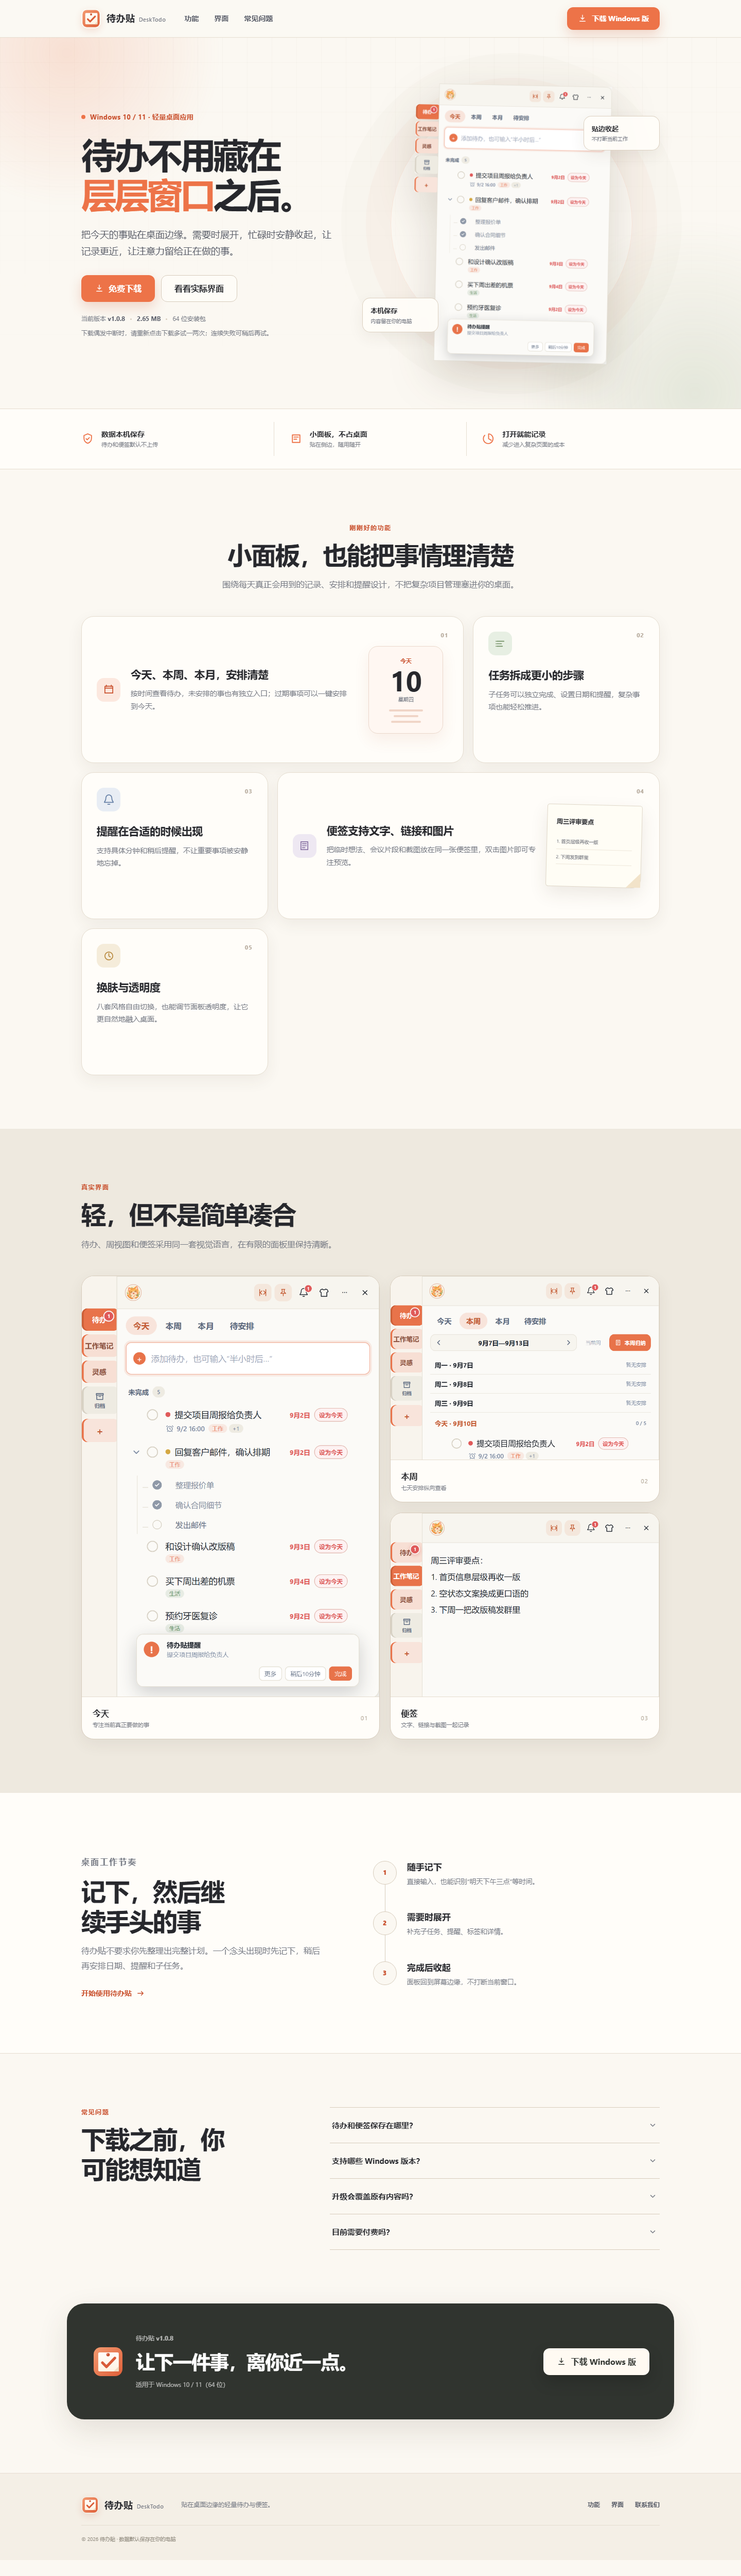
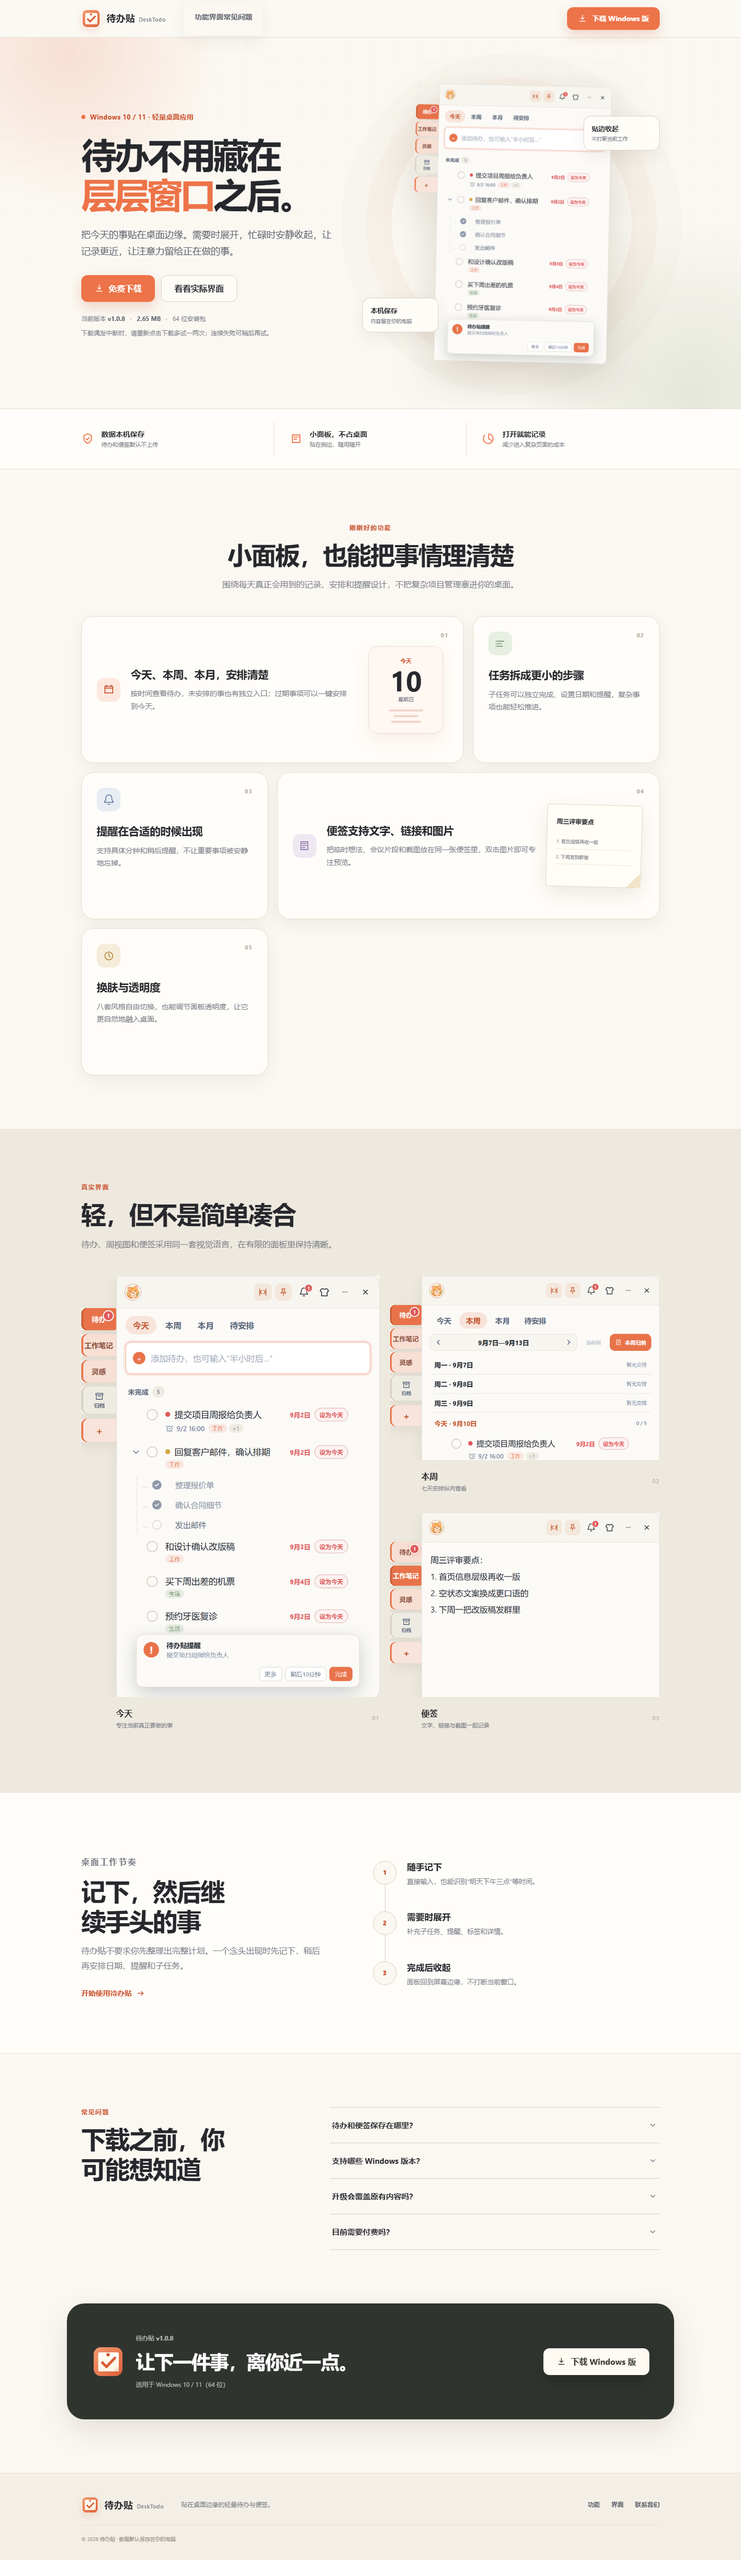
修复官网界面图区页签背板

diff --git a/assets/css/style.css b/assets/css/style.css
@@ -39,3 +39,9 @@ button,a{font:inherit}a{color:inherit;text-decoration:none}img{display:block;max
 @media(max-width:760px){.container{padding-inline:20px}.header-inner{height:66px}.brand small{display:none}.site-nav{position:absolute;top:66px;right:0;left:0;display:grid;gap:0;padding:10px 20px 16px;border-bottom:1px solid var(--line);background:var(--paper);box-shadow:var(--shadow-sm);opacity:0;transform:translateY(-8px);pointer-events:none;transition:opacity .18s ease,transform .18s ease}.site-nav.open{opacity:1;transform:none;pointer-events:auto}.site-nav a{min-height:44px;display:flex;align-items:center}.site-nav a::after{display:none}.header-download{display:none}.nav-toggle{display:flex}.hero-grid{padding-top:50px;padding-bottom:58px}.hero h1{font-size:clamp(39px,12vw,56px)}.hero-lead{font-size:16px}.hero-product{min-height:500px}.product-shot{width:min(78%,350px);height:490px}.floating-tip{min-width:132px;padding:11px 13px}.floating-tip-top{top:54px;right:0}.floating-tip-bottom{bottom:48px;left:0}.trust-grid{grid-template-columns:1fr;padding-block:10px}.trust-grid>div{min-height:75px;padding:12px 0;border-right:0;border-bottom:1px solid var(--line)}.trust-grid>div:last-child{border-bottom:0}.section{padding:78px 0}.feature-layout{grid-template-columns:1fr}.feature,.feature-large,.feature-wide,.feature:not(.feature-large):not(.feature-wide):last-child{grid-column:auto;min-height:260px;display:block}.feature-large .feature-icon,.feature-wide .feature-icon{margin-bottom:23px}.mini-calendar,.note-sample{display:none}.preview-grid{grid-template-columns:1fr;grid-template-rows:none}.preview-card,.preview-tall{grid-row:auto;height:520px}.rhythm-grid{grid-template-columns:1fr;gap:40px}.download-card{flex-direction:column;align-items:stretch;padding:34px 27px}.download-card>div{align-items:flex-start}.button-light{width:100%}.footer-grid{grid-template-columns:1fr}.footer-grid>div{flex-wrap:wrap}.footer-grid>small{grid-column:auto}}
 @media(max-width:480px){.container{padding-inline:16px}.hero h1{letter-spacing:-.045em}.hero-actions{display:grid}.hero-actions .button{width:100%}.hero-product{min-height:450px;margin-inline:-5px}.product-shot{width:82%;height:440px}.floating-tip{display:none}.release-line{gap:7px}.section-heading{text-align:left}.preview-card,.preview-tall{height:470px}.download-card>div{display:grid}}
 @media(prefers-reduced-motion:reduce){html{scroll-behavior:auto}*,*::before,*::after{scroll-behavior:auto!important;transition-duration:.01ms!important;animation-duration:.01ms!important;animation-iteration-count:1!important}.js .reveal{opacity:1;transform:none}}
+
+/* Product tabs float independently: never paint a rectangular card behind the rail. */
+.preview-card { overflow: visible; border: 0; border-radius: 0; background: transparent; box-shadow: none; }
+.preview-media { background: transparent; }
+.preview-media img { object-position: left top; filter: drop-shadow(0 8px 12px rgba(68,53,36,.09)); }
+.preview-card figcaption { margin-left: 11.666667%; padding-left: 0; padding-right: 0; border-top: 0; background: transparent; }

diff --git a/index.html b/index.html
@@ -72,9 +72,9 @@
     <section class="section preview-section" id="preview"><div class="container">
       <header class="section-heading section-heading-left reveal"><p class="section-kicker">真实界面</p><h2>轻，但不是简单凑合</h2><p>待办、周视图和便签采用同一套视觉语言，在有限的面板里保持清晰。</p></header>
       <div class="preview-grid">
-        <figure class="preview-card preview-tall reveal"><div class="preview-media"><img src="assets/screenshots/app-hero.png" alt="待办贴今天列表界面" loading="lazy" /></div><figcaption><span><b>今天</b><small>专注当前真正要做的事</small></span><i>01</i></figcaption></figure>
-        <figure class="preview-card reveal"><div class="preview-media"><img src="assets/screenshots/shot-week.png" alt="待办贴本周视图" loading="lazy" /></div><figcaption><span><b>本周</b><small>七天安排纵向查看</small></span><i>02</i></figcaption></figure>
-        <figure class="preview-card reveal"><div class="preview-media"><img src="assets/screenshots/shot-notes.png" alt="待办贴便签界面" loading="lazy" /></div><figcaption><span><b>便签</b><small>文字、链接与截图一起记录</small></span><i>03</i></figcaption></figure>
+        <figure class="preview-card preview-tall reveal"><div class="preview-media"><img src="assets/screenshots/app-hero.png?v=20260914" alt="待办贴今天列表界面" loading="lazy" /></div><figcaption><span><b>今天</b><small>专注当前真正要做的事</small></span><i>01</i></figcaption></figure>
+        <figure class="preview-card reveal"><div class="preview-media"><img src="assets/screenshots/shot-week.png?v=20260914" alt="待办贴本周视图" loading="lazy" /></div><figcaption><span><b>本周</b><small>七天安排纵向查看</small></span><i>02</i></figcaption></figure>
+        <figure class="preview-card reveal"><div class="preview-media"><img src="assets/screenshots/shot-notes.png?v=20260914" alt="待办贴便签界面" loading="lazy" /></div><figcaption><span><b>便签</b><small>文字、链接与截图一起记录</small></span><i>03</i></figcaption></figure>
       </div>
     </div></section>
 
